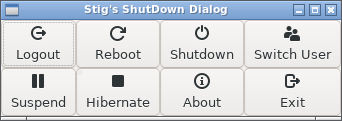
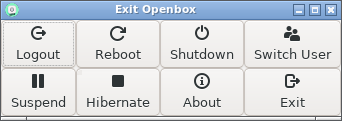
Rename to Simple ShutDown Dialog

Changed region(s): [[0.2339, 0.0248, 0.6725, 0.1488], [0.0, 0.0248, 0.0585, 0.1488]]

diff --git a/ssdd.c b/ssdd.c
@@ -48,13 +48,13 @@ static void show_about_dialog(GtkWidget *widget) {
     GtkWidget *image;
     GtkWidget *box;
     const gchar *about_text = 
-        "\n<b>About Stig's ShutDown Dialog</b>\n\n"
+        "\n<b>About Simple ShutDown Dialog</b>\n\n"
         "<b>Version:</b> 1.2\n"
         "<b>Author:</b> kekePower\n"
         "<b>URL:</b> <a href=\"https://git.kekepower.com/kekePower/ssdd\">https://git.kekepower.com/kekePower/ssdd</a>\n"
         "<b>Description:</b> This is a simple Shutdown Dialog for Openbox.\n";
 
-    dialog = gtk_dialog_new_with_buttons("About Stig's ShutDown Dialog",
+    dialog = gtk_dialog_new_with_buttons("About Simple ShutDown Dialog",
                                          NULL,
                                          GTK_DIALOG_DESTROY_WITH_PARENT,
                                          "_Close",

diff --git a/README.md b/README.md
@@ -1,10 +1,10 @@
-# ssdd: Stig's Shutdown Dialog for Openbox
+# ssdd: Simple Shutdown Dialog for Openbox
 
 A simple Shutdown Dialog for Openbox written in C using GTK 
 
 ![Project Screenshot](ssdd.png)
 
-**Stig's Shutdown Dialog (ssdd)** is a simple yet stylish shutdown dialog for Openbox, crafted in C using GTK.
+**Simple Shutdown Dialog (ssdd)** is a simple yet stylish shutdown dialog for Openbox, crafted in C using GTK.
 
 ## Why ssdd?
 
